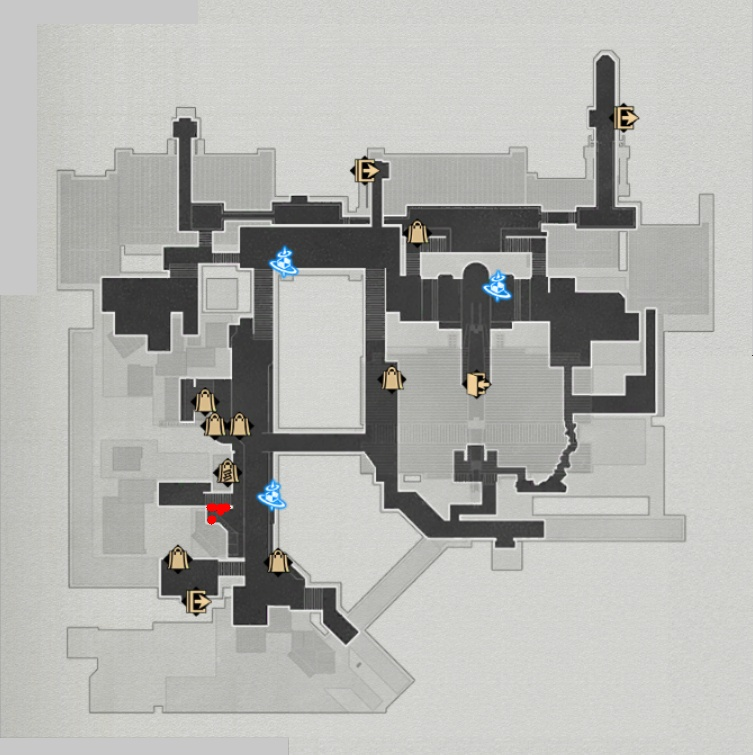
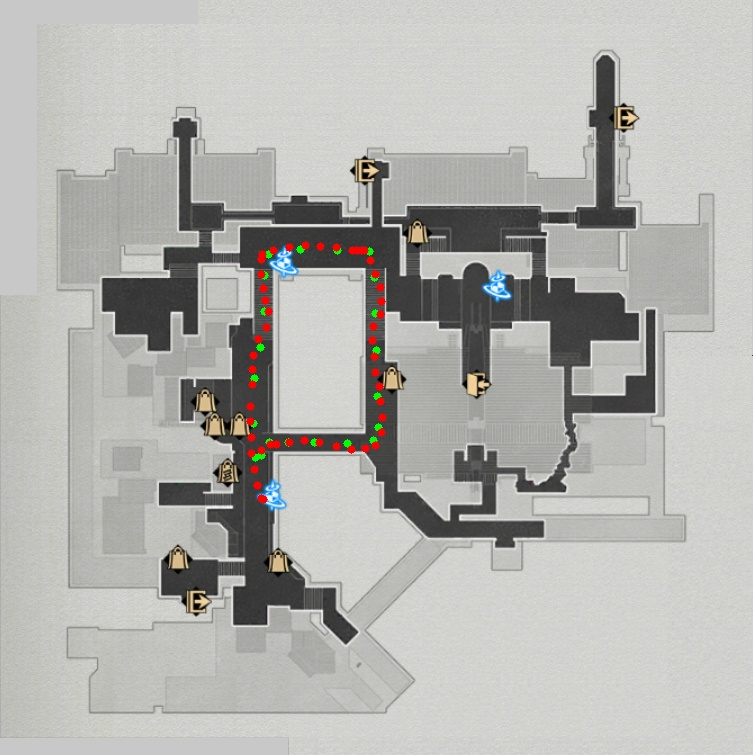
Add auto navigation 0.1

Changed region(s): [[0.3054, 0.3046, 0.5193, 0.6702], [0.2749, 0.6397, 0.3054, 0.7007]]

diff --git a/Utils/MapNavigation.py b/Utils/MapNavigation.py
@@ -1,3 +1,4 @@
+import math
 import numpy as np
 import cv2
 from matplotlib import pyplot as plt
@@ -11,12 +12,17 @@ SMALL = 1
 LARGE = 1.3
 STEPS = 10
 
+THRESHDIR = 0.8
+THRESHUPDATE = 10
+THRESHRUN = 50
+
 
 class MapNavigation:
-    def __init__(self, controls, roi):
+    def __init__(self, controls, roi, debugMode=False):
         self.roi = roi
         self.controls = controls
         self.screen = controls.screen
+        self.debugMode = debugMode
         self.controls.getScreen()
 
     def setBigMap(self, bigMap):
@@ -25,8 +31,22 @@ class MapNavigation:
         cv2.imwrite("Screen/bigMap.png", self.bigMap)
         self.index = 0
         self.source = cv2.imread(bigMap)
-        self.debug = self.source.copy()
+        if self.debugMode:
+            self.debug = self.source.copy()
 
+    def setRoute(self, route, controlCenter, controlRadius):
+        self.route = np.array(route)
+        self.routeIndex = 0
+        self.routeLen = len(route)
+        self.controlCenter = controlCenter
+        self.controlRadius = controlRadius
+        if self.debugMode:
+            for i in range(self.routeLen):
+                cv2.circle(self.debug,
+                           (int(self.route[i][0]), int(self.route[i][1])), 4,
+                           (0, 255, 0), -1)
+
+    # find current position
     def getMap(self):
         self.controls.getScreen()
         screen_img = cv2.imread(self.screen)
@@ -47,18 +67,16 @@ class MapNavigation:
         self.current = self.getMap()
         self.analyzeFull()
 
-    def update(self, debugMode=False):
+    def update(self):
         self.current = self.getMap()
         self.index += 1
         if not (self.analyze()):
-            if debugMode:
+            if self.debugMode:
                 self.debug = self.source.copy()
             self.analyzeFull()
-        if debugMode:
-            cv2.circle(self.debug,
-                       (int(self.offset[0] + self.current.shape[1] / 2),
-                        int(self.offset[1] + self.current.shape[0] / 2)), 4,
-                       (0, 0, 255), -1)
+        if self.debugMode:
+            cv2.circle(self.debug, (int(self.mapPos[0]), int(self.mapPos[1])),
+                       4, (0, 0, 255), -1)
             cv2.imwrite(f"Screen/debug.jpg", self.debug)
 
     def analyze(self, threshold=50):
@@ -80,6 +98,10 @@ class MapNavigation:
         self.offset = [
             -mapOffset[0] + currentOffset[0], -mapOffset[1] + currentOffset[1]
         ]
+        self.mapPos = [
+            self.offset[0] + self.current.shape[1] / 2,
+            self.offset[1] + self.current.shape[0] / 2,
+        ]
         # shift = [(1 - currentScale) * size[1] / 2,
         #          (1 - currentScale) * size[0] / 2]
         # final1 = cv2.warpAffine(
@@ -100,6 +122,10 @@ class MapNavigation:
         currentOffset, valueMax, currentScale = patchMatchScale(
             img1, SMALL, LARGE, STEPS, self.bigMap)
         self.offset = currentOffset
+        self.mapPos = [
+            self.offset[0] + self.current.shape[1] / 2,
+            self.offset[1] + self.current.shape[0] / 2,
+        ]
         # shift = [(1 - currentScale) * size[1] / 2,
         #          (1 - currentScale) * size[0] / 2]
         # final = cv2.warpAffine(
@@ -112,3 +138,55 @@ class MapNavigation:
         #     (self.bigMap.shape[1], self.bigMap.shape[0]))
         # cv2.imwrite(f"Screen/align{self.index}.jpg", self.bigMap - res + 128)
         # print(valueMax, currentScale, self.offset)
+
+    # navigation to target
+    def updateTarget(self):
+        while self.routeIndex < self.routeLen:
+            direction = [
+                self.route[self.routeIndex][0] - self.mapPos[0],
+                self.route[self.routeIndex][1] - self.mapPos[1]
+            ]
+            if (direction[0]**2 + direction[1]**2) < THRESHUPDATE**2:
+                self.routeIndex += 1
+            else:
+                break
+
+    def move(self, direction, run=False):
+        distance2 = direction[0]**2 + direction[1]**2
+        angle = math.atan2(direction[1], direction[0])
+        angle = angle * 180 / math.pi
+
+        if (distance2 > THRESHRUN or run):
+            # run
+            self.controls.pressAngle(self.controlCenter, self.controlRadius[0],
+                                     angle)
+        else:
+            # walk
+            self.controls.pressAngle(self.controlCenter, self.controlRadius[1],
+                                     angle)
+
+    def goRoute(self):
+        self.updateTarget()
+        if self.routeIndex >= self.routeLen:
+            self.controls.release()
+            print("Arrived")
+            return True
+        direction = [
+            self.route[self.routeIndex][0] - self.mapPos[0],
+            self.route[self.routeIndex][1] - self.mapPos[1]
+        ]
+        if self.routeIndex == self.routeLen - 1:
+            self.move(direction)
+        else:
+            nextDirection = self.route[self.routeIndex +
+                                       1] - self.route[self.routeIndex]
+            # normalize
+            nextDirection = nextDirection / np.linalg.norm(nextDirection)
+            direction = np.array(direction)
+            direction = direction / np.linalg.norm(direction)
+            dot = np.dot(direction, nextDirection)
+            if dot > THRESHDIR:
+                self.move(direction, True)
+            else:
+                self.move(direction)
+        return False

diff --git a/main.py b/main.py
@@ -11,7 +11,7 @@ ADB = "\"C:\Program Files\BlueStacks_nxt\.\HD-Adb.exe\""
 SCREEN = "Screen/screen.png"
 
 
-async def main():
+def main():
     controls = Controls(ADB,
                         ADBADRESS,
                         SCREEN,
@@ -21,7 +21,7 @@ async def main():
                         sendEventSize=navigationEvent["sendEventSize"])
     controls.connectADB()
     task = GameTasks(controls)
-    map = MapNavigation(controls, posDict["mapOffset"])
+    map = MapNavigation(controls, posDict["mapOffset"], debugMode=True)
 
     # from begining to the main screen
     # if (not task.start()):
@@ -38,15 +38,19 @@ async def main():
     ts = time.time()
     map.setBigMap(dict["map21"])
     map.getInitPos()
-    controls.pressAngle(posDict["center"], posDict["rad"][0])
+    route = [(255, 457), (253, 423), (254, 378), (260, 347), (264, 311),
+             (264, 275), (268, 254), (300, 249), (337, 250), (369, 251),
+             (374, 277), (375, 313), (376, 350), (377, 396), (378, 427),
+             (373, 440), (347, 443), (314, 442), (288, 442), (269, 442),
+             (261, 455)]
+    map.setRoute(route, posDict["center"], posDict["rad"])
     while (1):
         te = time.time()
         print(te - ts)
         ts = te
-        map.update(debugMode=True)
-        # map.update()
-        controls.pressDeltaAngle(posDict["center"], posDict["rad"][0], 10)
-    controls.release()
+        map.update()
+        if (map.goRoute()):
+            break
 
 
-asyncio.run(main())
+main()

diff --git a/Utils/Controls.py b/Utils/Controls.py
@@ -25,10 +25,9 @@ class Controls:
         self.pressSteps = pressSteps
         self.releaseSteps = releaseSteps
         self.sendEventSize = sendEventSize
-        self.angle = 90
 
-    async def runCommand(self, command):
-        subprocess.run(command, capture_output=True, shell=True)
+    # async def runCommand(self, command):
+    #     subprocess.run(command, capture_output=True, shell=True)
 
     def connectADB(self):
         # asyncio.create_task(
@@ -91,19 +90,11 @@ class Controls:
             step = step.replace("posY", f"{int(posY)}")
             self.sendEvent(self.device, step)
 
-    def pressAngle(self, center, radius, angle=None):
-        if angle is None:
-            angle = self.angle
-        else:
-            self.angle = angle
+    def pressAngle(self, center, radius, angle):
         rad = math.radians(angle)
         posX = center[0] + radius * math.cos(rad)
-        posY = center[1] - radius * math.sin(rad)
+        posY = center[1] + radius * math.sin(rad)
         self.pressPos([posX, posY])
-
-    def pressDeltaAngle(self, center, radius, deltaAngle):
-        self.angle += deltaAngle
-        self.pressAngle(center, radius)
 
     def release(self):
         for step in self.releaseSteps:

diff --git a/CropRoi/MakeRoute.py b/CropRoi/MakeRoute.py
@@ -1,0 +1,31 @@
+import cv2
+import os
+
+# 初始化参考点列表和布尔值标志：是否正在执行裁剪
+refPt = []
+src = "./Screen/bigMap.png"
+dst = "./Templates"
+
+
+def getPoint(event, x, y, flags, param):
+    # 声明全局变量
+    global refPt
+    if event == cv2.EVENT_LBUTTONDOWN:
+        refPt.append((x, y))
+        print(x, y)
+
+
+cv2.namedWindow("image")
+cv2.setMouseCallback("image", getPoint)
+
+image = cv2.imread(src)
+while True:
+    cv2.imshow("image", image)
+    key = cv2.waitKey(0) & 0xFF
+    if key == ord("q"):
+        break
+
+# 关闭所有打开的窗口
+cv2.destroyAllWindows()
+
+print(refPt)

diff --git a/README.md b/README.md
@@ -12,3 +12,7 @@ Currently taskTab2-6 is supported.
 # Map location finding
 
 Use MapNavigation.update() to get the real-time location of the tiny map. In debugMode, the location will be illustrated in the Screen/debug.jpg. Using sendevent enable me to do continous character control while still receiving the screencap from the simulator. Basically the time gap between 2 screencap is about 1 second.
+
+# Auto navigation
+
+Currently, auto navigation is achieved by manually providing the key points of map location. The camera should face the north direction. I'm planning to add auto camera facing and turning to provide better visual experience. And also, karman filtering will be addeed.
